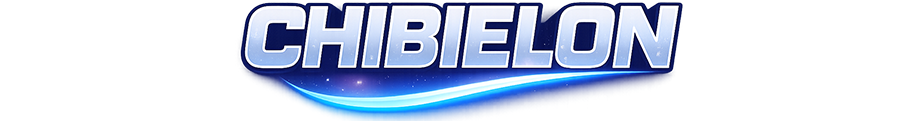
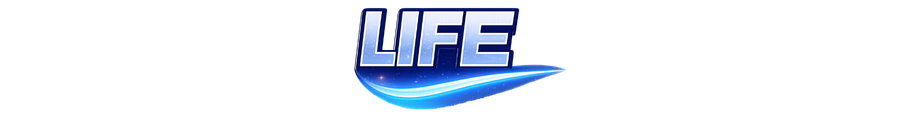
update

diff --git a/index.html b/index.html
@@ -7,27 +7,27 @@
     <link rel="profile" href="https://gmpg.org/xfn/11" />
     <meta name="mobile-web-app-capable" content="yes" />
     <meta name="apple-mobile-web-app-capable" content="yes" />
-    <meta name="apple-mobile-web-app-title" content="$CHIBIELON" />
+    <meta name="apple-mobile-web-app-title" content="$LIFE" />
     <link rel="pingback" href="/xmlrpc.php" />
-    <title>$CHIBIELON</title>
+    <title>$LIFE</title>
     <meta name="robots" content="max-image-preview:large" />
     <style>
       img:is([sizes="auto" i], [sizes^="auto," i]) {
         contain-intrinsic-size: 3000px 1500px;
       }
     </style>
-    <meta itemprop="name" content="$CHIBIELON" />
+    <meta itemprop="name" content="$LIFE" />
     <meta itemprop="url" content="/" />
     <link
       rel="alternate"
       type="application/rss+xml"
-      title="$CHIBIELON &raquo; Feed"
+      title="$LIFE &raquo; Feed"
       href="/feed/"
     />
     <link
       rel="alternate"
       type="application/rss+xml"
-      title="$CHIBIELON &raquo; Comments Feed"
+      title="$LIFE &raquo; Comments Feed"
       href="/comments/feed/"
     />
     <script>
@@ -1802,7 +1802,7 @@
                         >
                           <a
                             target="_blank"
-                            href="https://dexscreener.com/solana/4i9269mwWhkEZXvY6fkQEPun5Vf8QtwiuEHAwgvFpump"
+                            href="https://dexscreener.com/solana/0xc12CE87e5A64b923391117f185aa2e61AEa83734"
                             class="lqd-menu-link transition-all lqd-menu-link-top flex items-center"
                             >Chart</a
                           >
@@ -1813,7 +1813,7 @@
                         >
                           <a
                             target="_blank"
-                            href="https://x.com/i/communities/2034626507839348967"
+                            href="https://t.me/elonlife_eth"
                             class="lqd-menu-link transition-all lqd-menu-link-top flex items-center"
                             >Twitter</a
                           >
@@ -1824,7 +1824,7 @@
                         >
                           <a
                             target="_blank"
-                            href="https://t.me/ChibiElonSOL"
+                            href="https://t.me/elonlife_eth"
                             class="lqd-menu-link transition-all lqd-menu-link-top flex items-center"
                             >Telegram</a
                           >
@@ -1913,7 +1913,7 @@
                 >
                   <div class="elementor-widget-container">
                     <a
-                      href="https://pump.fun/coin/4i9269mwWhkEZXvY6fkQEPun5Vf8QtwiuEHAwgvFpump"
+                      href="https://app.uniswap.org/#/swap?inputCurrency=eth&outputCurrency=0xc12CE87e5A64b923391117f185aa2e61AEa83734"
                       role="button"
                       class="lqd-btn inline-flex items-center relative lqd-group lqd-group-btn lqd-btn-has-bg lqd-btn-has-hover-bg"
                       data-lqd-local-scroll-el=""
@@ -1924,7 +1924,7 @@
                         class="lqd-hover-bg-el lqd-el-visible-on-hover rounded-inherit transition-opacity opacity-0 lqd-group-btn-hover:opacity-100 hidden-if-empty"
                       ></span>
                       <span class="lqd-btn-txt relative z-1"
-                        >Buy $CHIBIELON</span
+                        >Buy $LIFE</span
                       ></a
                     >
                   </div>
@@ -2349,8 +2349,7 @@
                           ><span
                             class="lqd-tw-item transition-all elementor-repeater-item-eb0823c"
                           >
-                            $CHIBIELON Taking your bags to the moon and
-                            beyond!</span
+                            Curiosity & Adventure</span
                           ></span
                         >
                         <span
@@ -2378,7 +2377,7 @@
                             actions: [
                               [
                                 "typeString",
-                                '<span class="lqd-tw-item transition-all elementor-repeater-item-eb0823c">$CHIBIELON Taking your bags to the moon and beyond!<\/span>',
+                                '<span class="lqd-tw-item transition-all elementor-repeater-item-eb0823c">Curiosity & Adventure<\/span>',
                               ],
                             ],
                           },
@@ -2452,7 +2451,7 @@
                             data-lqd-inner-animatable-el
                           >
                             <ca
-                              >4i9269mwWhkEZXvY6fkQEPun5Vf8QtwiuEHAwgvFpump</ca
+                              >0xc12CE87e5A64b923391117f185aa2e61AEa83734</ca
                             >
                           </span></span
                         >
@@ -2535,7 +2534,7 @@
                   >
                     <div class="elementor-widget-container">
                       <a
-                        href="https://pump.fun/coin/4i9269mwWhkEZXvY6fkQEPun5Vf8QtwiuEHAwgvFpump"
+                        href="https://app.uniswap.org/#/swap?inputCurrency=eth&outputCurrency=0xc12CE87e5A64b923391117f185aa2e61AEa83734"
                         role="button"
                         class="lqd-btn inline-flex items-center relative lqd-group lqd-group-btn"
                         data-lqd-local-scroll-el=""
@@ -2782,25 +2781,7 @@
                               class="tweet-container"
                               style="max-width: 550px; margin: 0 auto"
                             >
-                              <!-- Primary Tweet -->
-                              <blockquote class="twitter-tweet" data-dnt="true">
-                                <p lang="en" dir="ltr">
-                                  What is Chibi Elon? Chibi Elon tiny genius
-                                  with big dreams—rockets, EV vibes, and space
-                                  energy packed into one cute cosmic icon.
-                                </p>
-                                &mdash; Elon Musk (@elonmusk)
-                                <a
-                                  href="https://twitter.com/elonmusk/status/2034638595190149195"
-                                  >March 19, 2026</a
-                                >
-                              </blockquote>
-                              <!-- Twitter Widget Script -->
-                              <script
-                                async
-                                src="https://platform.twitter.com/widgets.js"
-                                charset="utf-8"
-                              ></script>
+                              <blockquote class="twitter-tweet"><p lang="en" dir="ltr">Curiosity &amp; adventure are my philosophy<a href="https://t.co/kwigy1KsIZ">https://t.co/kwigy1KsIZ</a></p>&mdash; Elon Musk (@elonmusk) <a href="https://twitter.com/elonmusk/status/2048589691054694406?ref_src=twsrc%5Etfw">April 27, 2026</a></blockquote> <script async src="https://platform.twitter.com/widgets.js" charset="utf-8"></script>
                             </div>
 
                             <!-- Optional: Add custom styling -->
@@ -3062,7 +3043,7 @@
                 >
                   <div class="elementor-widget-container">
                     <h2 class="lqd-text-rotator-el m-0 p-0 transition-all">
-                      Supercharge
+                      Curiosity &
                       <span class="block">
                         <span
                           data-lqd-inner-animatable-el="true"
@@ -3075,7 +3056,7 @@
                             >your profits</span
                           ><span
                             class="lqd-text-rotator-item elementor-repeater-item-0a007e1 flex grid-area-1-1 w-fit relative"
-                            >your life</span
+                            >Adventure</span
                           ></span
                         >
                       </span>
@@ -3119,7 +3100,7 @@
                     <div class="elementor-widget-container">
                       <a
                         target="_blank"
-                        href="https://pump.fun/coin/4i9269mwWhkEZXvY6fkQEPun5Vf8QtwiuEHAwgvFpump"
+                        href="https://app.uniswap.org/#/swap?inputCurrency=eth&outputCurrency=0xc12CE87e5A64b923391117f185aa2e61AEa83734"
                         role="button"
                         class="lqd-btn inline-flex items-center relative lqd-group lqd-group-btn"
                         data-lqd-local-scroll-el=""
@@ -3212,7 +3193,7 @@
                     <div class="elementor-widget-container">
                       <a
                         target="_blank"
-                        href="https://x.com/i/communities/2034626507839348967"
+                        href="https://t.me/elonlife_eth"
                         role="button"
                         class="lqd-btn inline-flex items-center relative lqd-group lqd-group-btn lqd-btn-has-bg"
                         data-lqd-local-scroll-el=""
@@ -3826,7 +3807,7 @@
         post: {
           id: 5800,
           title:
-            "$CHIBIELON%20%E2%80%93%20Spacecraft%20Transporting%20Astronomical%20Resources%20to%20unlock%20Human%20Interplanetary%20Possibilities%21",
+            "$LIFE%20%E2%80%93%20Spacecraft%20Transporting%20Astronomical%20Resources%20to%20unlock%20Human%20Interplanetary%20Possibilities%21",
           excerpt: "",
           featuredImage: false,
         },
